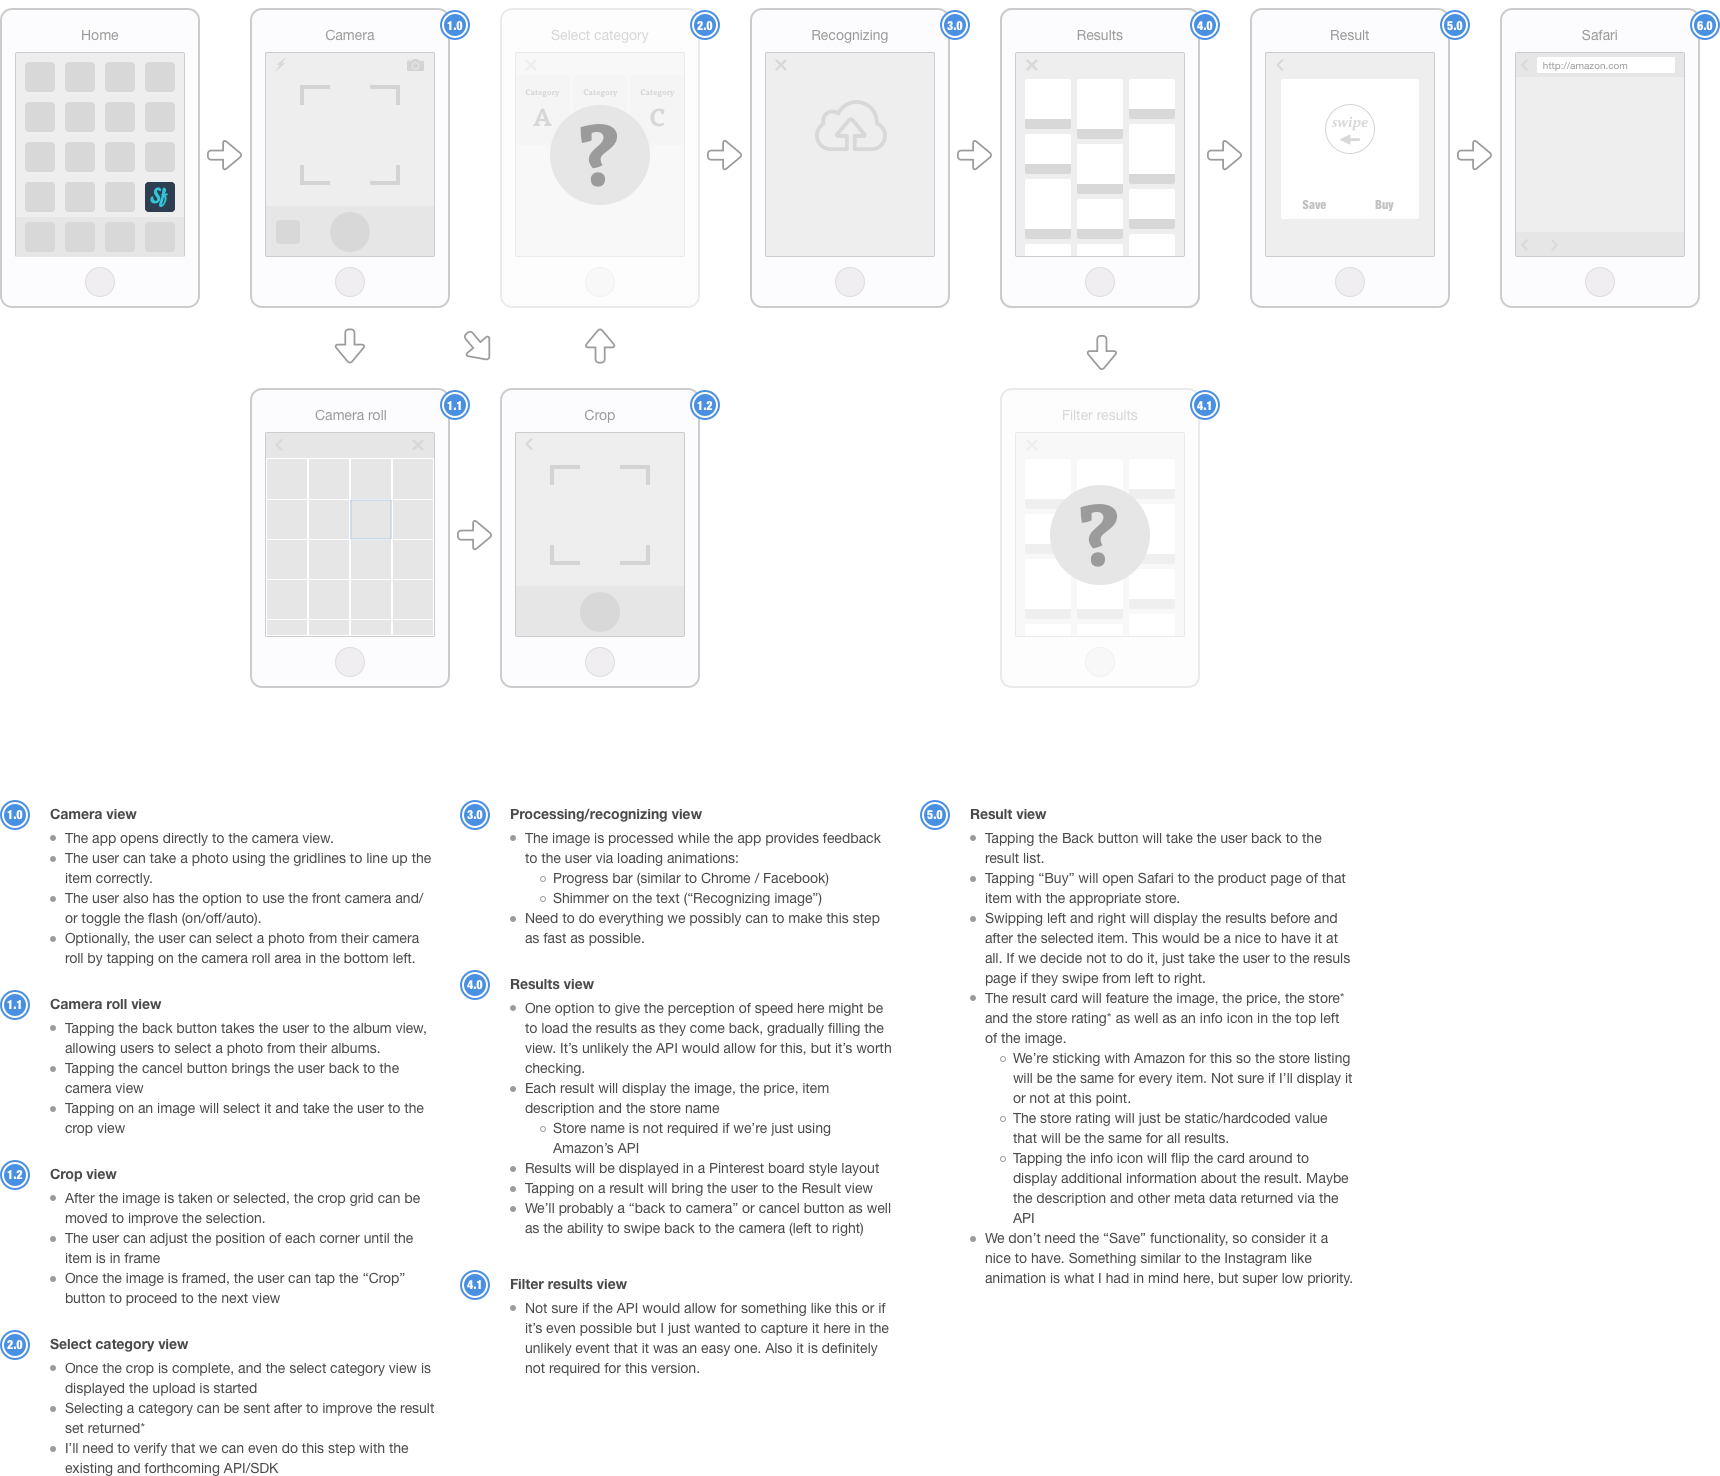
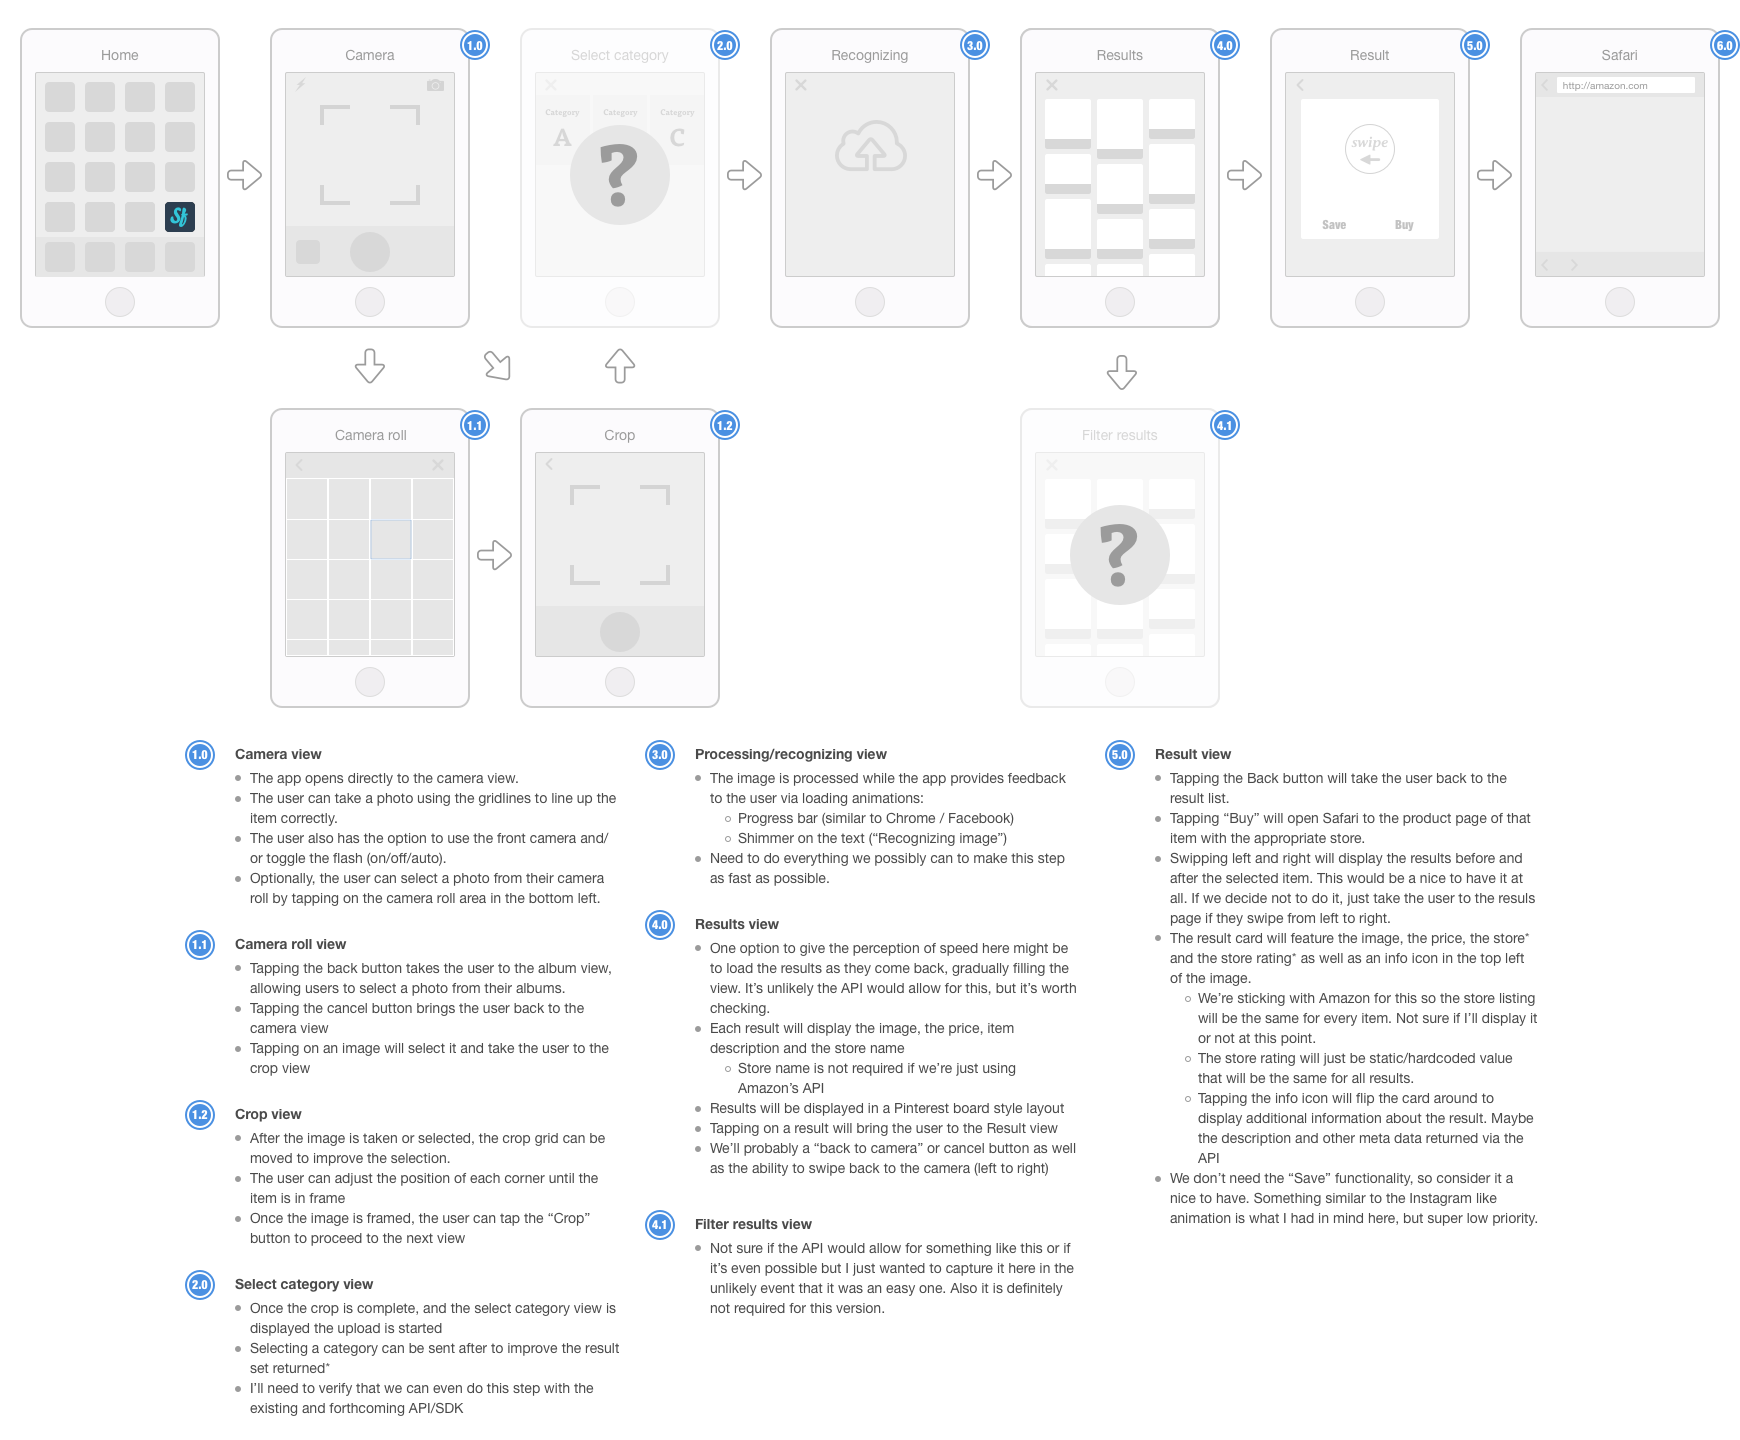
Updated Stylefind case study page copy and wireframe images

diff --git a/stylefind.html b/stylefind.html
@@ -62,44 +62,45 @@
       <hr>
       <section>
         <h3>The Problem</h3>
-        <p>Nullam vel dolor id mi venenatis ultricies. Etiam gravida turpis ac eros imperdiet, et facilisis dolor vehicula. Etiam in sodales dolor. In porttitor nulla ac odio elementum, in imperdiet magna auctor. Ut porttitor nunc id nibh vehicula vestibulum. Aliquam gravida odio tortor, in hendrerit sem adipiscing ut. Donec malesuada ornare tortor sed facilisis. Suspendisse lacinia tincidunt tortor quis fermentum. Donec accumsan porttitor tellus ac tincidunt. Quisque vitae enim luctus, mattis elit pretium, posuere tellus. Pellentesque pretium ut leo at euismod. Mauris tincidunt, enim id consequat faucibus, dui turpis condimentum justo, vel tincidunt nisi lectus quis eros. Nunc nulla arcu, porta eu orci quis, sodales eleifend nunc.</p>
+        <p>I was contracted by <a href="http://slyce.it" target="_blank" title="Open slyce.it in a new tab/window">Slyce Inc.</a> to design and build a consumer app for iOS that leveraged their visual search technology.</p>
+        <p>The goal was to create an app that would showcase this technology in a very favorable light. Using the provided APIs, we needed to enable people to get purchaseable results from the images they submitted. Ultimately, the app would be used by Slyce to demonstrate to retailers and investors the power and accuracy of their visual search magic.</p>
       </section>
       <hr>
       <section>
-        <h3>The Solution</h3>
-        <p>Aliquam sollicitudin nulla dui, ac lacinia leo interdum eget. In vel erat ut sem elementum porta ac et leo. Morbi leo diam, consectetur ut nibh vel, tincidunt elementum sapien. Nunc ac euismod dolor. Nam felis erat, egestas eu leo ultrices, lobortis tempor elit. Sed quis enim ante. Donec porttitor risus est, non sodales ligula porta sollicitudin. Vestibulum fringilla elit ipsum. Sed elit massa, fermentum quis est vitae, iaculis elementum urna. Cras id mollis dolor. In ultrices suscipit elementum. Sed gravida justo sit amet orci sodales, in vehicula urna ullamcorper.</p>
+        <h3>Research & Hypothesis</h3>
+        <p>After talking with the stakeholders at Slyce, it was apparent that speed and accuracy were critical to the app's success. In order to showcase the powerful technology Slyce offers, we needed to enable people to easily submit an image and get purchasable results back quickly, in a simple and frictionless way. I knew that perceived speed would need to be a focal point during the design and development of the app. Starting image uploads as early as possible and other slight of hand like tricks would go a long way in making the app feel faster.</p>
       </section>
       <hr>
       <section>
         <h3>Behind the Scenes</h3>
-        <p>Aliquam sollicitudin nulla dui, ac lacinia leo interdum eget. In vel erat ut sem elementum porta ac et leo. Morbi leo diam, consectetur ut nibh vel, tincidunt elementum sapien. Nunc ac euismod dolor. Nam felis erat, egestas eu leo ultrices, lobortis tempor elit. Sed quis enim ante. Donec porttitor risus est, non sodales ligula porta sollicitudin. Vestibulum fringilla elit ipsum. Sed elit massa, fermentum quis est vitae, iaculis elementum urna. Cras id mollis dolor. In ultrices suscipit elementum. Sed gravida justo sit amet orci sodales, in vehicula urna ullamcorper.</p>
+        <p>I began by wireframing the required views for the app to outline the user's flow through the app. During this process it became clear that enabling people to filter results, or select a category before uploading their image, didn't address the goal of the project. While these features seemed to offer a better overall experience, neither helped to showcase the speed or accuracy of the results Slyce could procide.</p>
       </section>
       <hr>
-      <section class="images iphone">
+      <section class="images wires">
         <ul>
           <li>
-            <a href="_img/stylefind_v2/stylefindv2-00-capture.png" class="img view" rel="project_11">
-              <img src="_img/stylefind_v2/stylefindv2-00-capture_s2.png" class="no-boxshadow" alt="Stylefind - Capture view" />
+            <a href="_img/stylefind_v1/stylefind_v1-flow.png" class="img view" rel="wires_1">
+              <img src="_img/stylefind_v1/stylefind_v1-flow.png" class="no-boxshadow" alt="Stylefind - Demo app flow" />
             </a>
           </li>
           <li>
-            <a href="_img/stylefind_v2/stylefindv2-01-uploading.png" class="img view" rel="project_11">
-              <img src="_img/stylefind_v2/stylefindv2-01-uploading_s2.png" class="no-boxshadow" alt="Stylefind - Uploading view" />
+            <a href="_img/stylefind_v2/stylefind_v2-sign_up_flow.png" class="img view" rel="wires_1">
+              <img src="_img/stylefind_v2/stylefind_v2-sign_up_flow.png" class="no-boxshadow" alt="Stylefind - Sign up flow 1" />
             </a>
           </li>
           <li>
-            <a href="_img/stylefind_v2/stylefindv2-02-results.png" class="img view" rel="project_11">
-              <img src="_img/stylefind_v2/stylefindv2-02-results_s2.png" class="no-boxshadow" alt="Stylefind - Results view" />
+            <a href="_img/stylefind_v2/stylefind_v2-auth_flow1.png" class="img view" rel="wires_1">
+              <img src="_img/stylefind_v2/stylefind_v2-auth_flow1.png" class="no-boxshadow" alt="Stylefind - Sign up flow 2" />
             </a>
           </li>
           <li>
-            <a href="_img/stylefind_v2/stylefindv2-03-result-info.png" class="img view" rel="project_11">
-              <img src="_img/stylefind_v2/stylefindv2-03-result-info_s2.png" class="no-boxshadow" alt="Stylefind - Result info view" />
+            <a href="_img/stylefind_v2/stylefind_v2-auth_flow2.png" class="img view" rel="wires_1">
+              <img src="_img/stylefind_v2/stylefind_v2-auth_flow2.png" class="no-boxshadow" alt="Stylefind - Sign up flow 2" />
             </a>
           </li>
           <li>
-            <a href="_img/stylefind_v2/stylefindv2-04-profile.png" class="img view" rel="project_11">
-              <img src="_img/stylefind_v2/stylefindv2-04-profile_s2.png" class="no-boxshadow" alt="Stylefind - Profile view" />
+            <a href="_img/stylefind_v2/stylefind_v2-app_flow.png" class="img view" rel="wires_1">
+              <img src="_img/stylefind_v2/stylefind_v2-app_flow.png" class="no-boxshadow" alt="Stylefind - App flow" />
             </a>
           </li>
         </ul>
@@ -108,6 +109,42 @@
       <section>
         <h3>Prototyping</h3>
         <p>Aliquam sollicitudin nulla dui, ac lacinia leo interdum eget. In vel erat ut sem elementum porta ac et leo. Morbi leo diam, consectetur ut nibh vel, tincidunt elementum sapien. Nunc ac euismod dolor. Nam felis erat, egestas eu leo ultrices, lobortis tempor elit. Sed quis enim ante. Donec porttitor risus est, non sodales ligula porta sollicitudin. Vestibulum fringilla elit ipsum. Sed elit massa, fermentum quis est vitae, iaculis elementum urna. Cras id mollis dolor. In ultrices suscipit elementum. Sed gravida justo sit amet orci sodales, in vehicula urna ullamcorper.</p>
+      </section>
+      <hr>
+      <section>
+        <h3>Solution</h3>
+        <p>After a few iterations to tweak how we displayed feedback to the user when their image was uploading, how the results were displayed and how soon the user would be sent to the checkout webview (i.e. removing the result info view), we arrived at our finished product - the Stylefind prototype, so to speak.</p>
+        <p>The final app was such a hit with Slyce that we decided to spin it off into is own company to create a full consumer app experience that harnesses the power of Slyce.</p>
+      </section>
+      <hr>
+      <section class="images iphone">
+        <ul>
+          <li>
+            <a href="_img/stylefind_v2/stylefindv2-00-capture.png" class="img view" rel="mocks_1">
+              <img src="_img/stylefind_v2/stylefindv2-00-capture_s2.png" width="276" height="791" class="no-boxshadow" alt="Stylefind - Capture view" />
+            </a>
+          </li>
+          <li>
+            <a href="_img/stylefind_v2/stylefindv2-01-uploading.png" class="img view" rel="mocks_1">
+              <img src="_img/stylefind_v2/stylefindv2-01-uploading_s2.png" width="276" height="791" class="no-boxshadow" alt="Stylefind - Uploading view" />
+            </a>
+          </li>
+          <li>
+            <a href="_img/stylefind_v2/stylefindv2-02-results.png" class="img view" rel="mocks_1">
+              <img src="_img/stylefind_v2/stylefindv2-02-results_s2.png" width="276" height="791" class="no-boxshadow" alt="Stylefind - Results view" />
+            </a>
+          </li>
+          <li>
+            <a href="_img/stylefind_v2/stylefindv2-03-result-info.png" class="img view" rel="mocks_1">
+              <img src="_img/stylefind_v2/stylefindv2-03-result-info_s2.png" width="276" height="791" class="no-boxshadow" alt="Stylefind - Result info view" />
+            </a>
+          </li>
+          <li>
+            <a href="_img/stylefind_v2/stylefindv2-04-profile.png" class="img view" rel="mocks_1">
+              <img src="_img/stylefind_v2/stylefindv2-04-profile_s2.png" width="276" height="791" class="no-boxshadow" alt="Stylefind - Profile view" />
+            </a>
+          </li>
+        </ul>
       </section>
     </article>
   </div>

diff --git a/_css/style.css b/_css/style.css
@@ -640,6 +640,14 @@ footer .pagination a.current_page:hover {
   max-height: 791px;
   overflow-x: scroll;
 }
+.case-study section.images.wires {
+  max-height: 650px;
+  overflow-x: scroll;
+}
+.case-study section.images.wires img {
+  height: 650px;
+  width: auto;
+}
 .case-study section.images li {
   float:left;
   margin: 0 30px;
